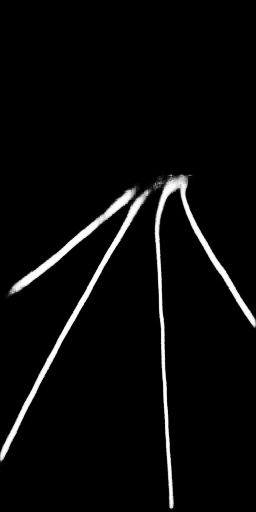
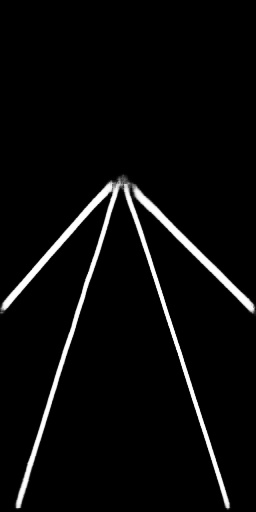
code refactor

diff --git a/test.py b/test.py
@@ -9,10 +9,18 @@ import ffmpeg
 import argparse 
 
 class Test:
-    def __init__(self,input_dir,output_dir,model_path,
+    def __init__(self,input_dir,output_dir,model_path,bandwidth,
                  mode='parallel',image_size=(256,512),threshold=.9):
         '''
-
+        实现对未见输入数据的车道线划分
+        变量：
+           input_dir:输入数据所在文件夹
+           output_dir:输出结果所在文件夹
+           model_path:模型定义文件地址
+           bandwidth:Meanshift 聚类所需参数
+           mode:模型训练时的模式
+           image_size:输入模型的图像尺寸
+           thrshold:二向判断的阈值
         '''
         self.input_dir=input_dir
         self.output_dir=output_dir 
@@ -20,6 +28,7 @@ class Test:
         self.mode=mode
         self.image_size=image_size
         self.threshold=threshold
+        self.bandwidth=bandwidth
     
     def _load_model(self):
         model=LaneNet()
@@ -61,11 +70,12 @@ class Test:
         img_files=os.listdir(self.input_dir)
         for i in img_files:
             embeddings,threshold_mask,img=self._frame_process(i,model)
-            cluster=lane_cluster(1.5,img,embeddings.squeeze().data.cpu().numpy(),
+            cluster=lane_cluster(self.bandwidth,img,embeddings.squeeze().data.cpu().numpy(),
                                  threshold_mask,mode='point',method='Meanshift')
             instance_mask=cluster()
             if not os.path.exists(os.path.join(self.output_dir,'instance/')):
                 os.mkdir(os.path.join(self.output_dir,'instance/'))
+            instance_mask=cv2.cvtColor(instance_mask,cv2.COLOR_RGB2BGR)
             cv2.imwrite(os.path.join(self.output_dir,'instance/','.'.join([i.split('.')[0],'png'])),instance_mask)
             
     def img2video(self):
@@ -81,16 +91,17 @@ if __name__=='__main__':
 
     args=argparse.ArgumentParser()
 
-    args.add_argument('-i','--input',default='./train_set/clips/0313-2/42960')
+    args.add_argument('-i','--input',default='D:/Bjoy/LaneDetect/train_set/clips/0531/1492628585982117150')
     args.add_argument('-o','--output',default='./test_result')
-    args.add_argument('-mp','--model',default='./logs/models/model_1_1552463854_299.pkl')
+    args.add_argument('-mp','--model',default='./logs/models/model_1_1552533346_100.pkl')
     args.add_argument('-m','--mode',default='parallel')
     args.add_argument('-s','--size',default=[256,512],type=int,nargs='+')
     args.add_argument('-t','--threshold',default=.9,type=float)
+    args.add_argument('-b','--bandwidth',default=.7)
     
     args=args.parse_args()
 
-    test=Test(args.input,args.output,args.model,mode=args.mode,image_size=tuple(args.size),threshold=args.threshold)
+    test=Test(args.input,args.output,args.model,args.bandwidth,mode=args.mode,image_size=tuple(args.size),threshold=args.threshold)
     test.img2img()
 
 

diff --git a/clustering.py b/clustering.py
@@ -7,14 +7,14 @@ class lane_cluster():
     聚类算法，根据LaneNet Embedding 模块的输出，进行聚类已实现对单个车道线的检测
     '''
     def __init__(self,bandwidth,image,embedding,binary_mask,mode='line',method='Meanshift'):
-        self.color=[np.array([255,0,0,200]),
-                    np.array([0,255,0,200]),
-                    np.array([0,0,255,200]),
-                    np.array([125,125,0,200]),
-                    np.array([0,125,125,200]),
-                    np.array([125,0,125,200]),
-                    np.array([50,100,50,200]),
-                    np.array([100,50,100,200])]
+        self.color=[np.array([255,0,0]),
+                    np.array([0,255,0]),
+                    np.array([0,0,255]),
+                    np.array([125,125,0]),
+                    np.array([0,125,125]),
+                    np.array([125,0,125]),
+                    np.array([50,100,50]),
+                    np.array([100,50,100])]
         
         self.image=image
         self.bandwidth=bandwidth
@@ -42,8 +42,9 @@ class lane_cluster():
 
     def _get_instance_masks(self):
         lane_area,lane_idx=self._get_lane_area()
-        instance_mask=self.image
-        instance_mask=cv2.cvtColor(instance_mask,cv2.COLOR_RGB2BGRA)
+        image=self.image
+        mask=np.zeros_like(image)
+        #image=cv2.cvtColor(instance_mask,cv2.COLOR_RGB2BGRA)
 
         labels=self._cluster(lane_area)
         num_cluster=len(set(labels))
@@ -51,8 +52,9 @@ class lane_cluster():
 
         if not self.mode=='line':
             for index,label in enumerate(labels):
-                instance_mask[lane_idx[index][0],lane_idx[index][1],:]=self.color[label]
-            return instance_mask
+                mask[lane_idx[index][0],lane_idx[index][1],:]=self.color[label]
+            masked_image=cv2.addWeighted(image,1,mask,1,0)
+            return masked_image
 
         for index,label in enumerate(range(num_cluster)):
             pos=np.where(labels==label)

diff --git a/loss.py b/loss.py
@@ -6,7 +6,6 @@ import torch.nn as nn
 import cv2
 
 class Losses:
-
     '''
     Implement above losses in a object oriented fashion
     '''
@@ -88,7 +87,8 @@ class Losses:
                     if index==idx:
                         continue
                     else:
-                        d_loss+=torch.pow(torch.clamp(self.delta_d-torch.norm(clusters[index]-cluster),min=0.),2)
+                        distance=torch.norm(clusters[index]-cluster)#torch.sqrt(torch.sum(torch.pow(clusters[index]-cluster,2)))
+                        d_loss+=torch.pow(torch.clamp(self.delta_d-distance,min=0.),2)
             var_loss+=v_loss/num_clusters
             dis_loss+=d_loss/(num_clusters*(num_clusters-1))
             reg_loss+=r_loss/num_clusters

diff --git a/model.py b/model.py
@@ -260,7 +260,7 @@ class LaneNet(nn.Module):
         '''
         super(LaneNet,self).__init__()
         self.net=nn.ModuleDict({'Shared_Encoder':SharedEncoder(),
-                                'Embedding':Embedding(6),
+                                'Embedding':Embedding(5),
                                 'Segmentation':Segmentation()})
         
     def forward(self,x):

diff --git a/README.md b/README.md
@@ -35,27 +35,25 @@
 ![image](./Images/LaneNet_Architecture.PNG)
 
 ## 样例
-Solarized dark             |  Solarized Ocean
-:-------------------------:|:-------------------------:
-![alt-text-1](./Images/Webp.net-gifmaker.gif) | ![alt-text-2](./Images/Webp.net-gifmaker_1.gif)
-![alt-text-1](./Images/20.jpg)| ![alt-text-2](./Images/30020.jpg)
+<img src="./Images/42960.jpg" width="200px"><img src="./Images/1.jpg" width="200px"><img src="./Images/1.png" width="200px">
+<img src="./Images/1560.jpg" width="200px"><img src="./Images/2.jpg" width="200px"><img src="./Images/2.png" width="200px">
+<img src="./Images/222.jpg" width="200px"><img src="./Images/3.jpg" width="200px"><img src="./Images/3.png" width="200px">
 
+## 如何使用
+### 训练
+如需使用Tusimple数据从新训练，可按以下步骤执行
+1. 解压数据至train_set文件夹
+2. 运行preprocess.py获取语义分割与个体分割ground truth 数据
+3. 输入适当参数，运行train.py即可，训练结果将被保存至test_result文件夹
+### 预测
+对图像frame的预测只需给定适当参数，并运行test.py即可. Pretrained的模型
+已在logs/models中提供
 
-##如何使用
-
-###训练
-
-###预测
-
-
-## 项目细节及进度
-- [x] LaneNet 模型构建
-- [x] HNet 模型构建
-- [x] 测试数据集清洗和生成(Tusimple Dataset)
-- [x] 预测阶段聚类算法的实现
-- [x] 构建训练和评估pipeline
-- [x] 模型训练，debug与调参
-- [ ] 加入TensorRT模型加速
-
+## 后续规划
+部分功能和改进，仍会不断加入，目前已有规划如下
+1. 加入TensorRT或tvm优化
+2. 加入视频流预测
+3. 评估SCNN算法
+4. 其它参数设定下的训练
 
 
